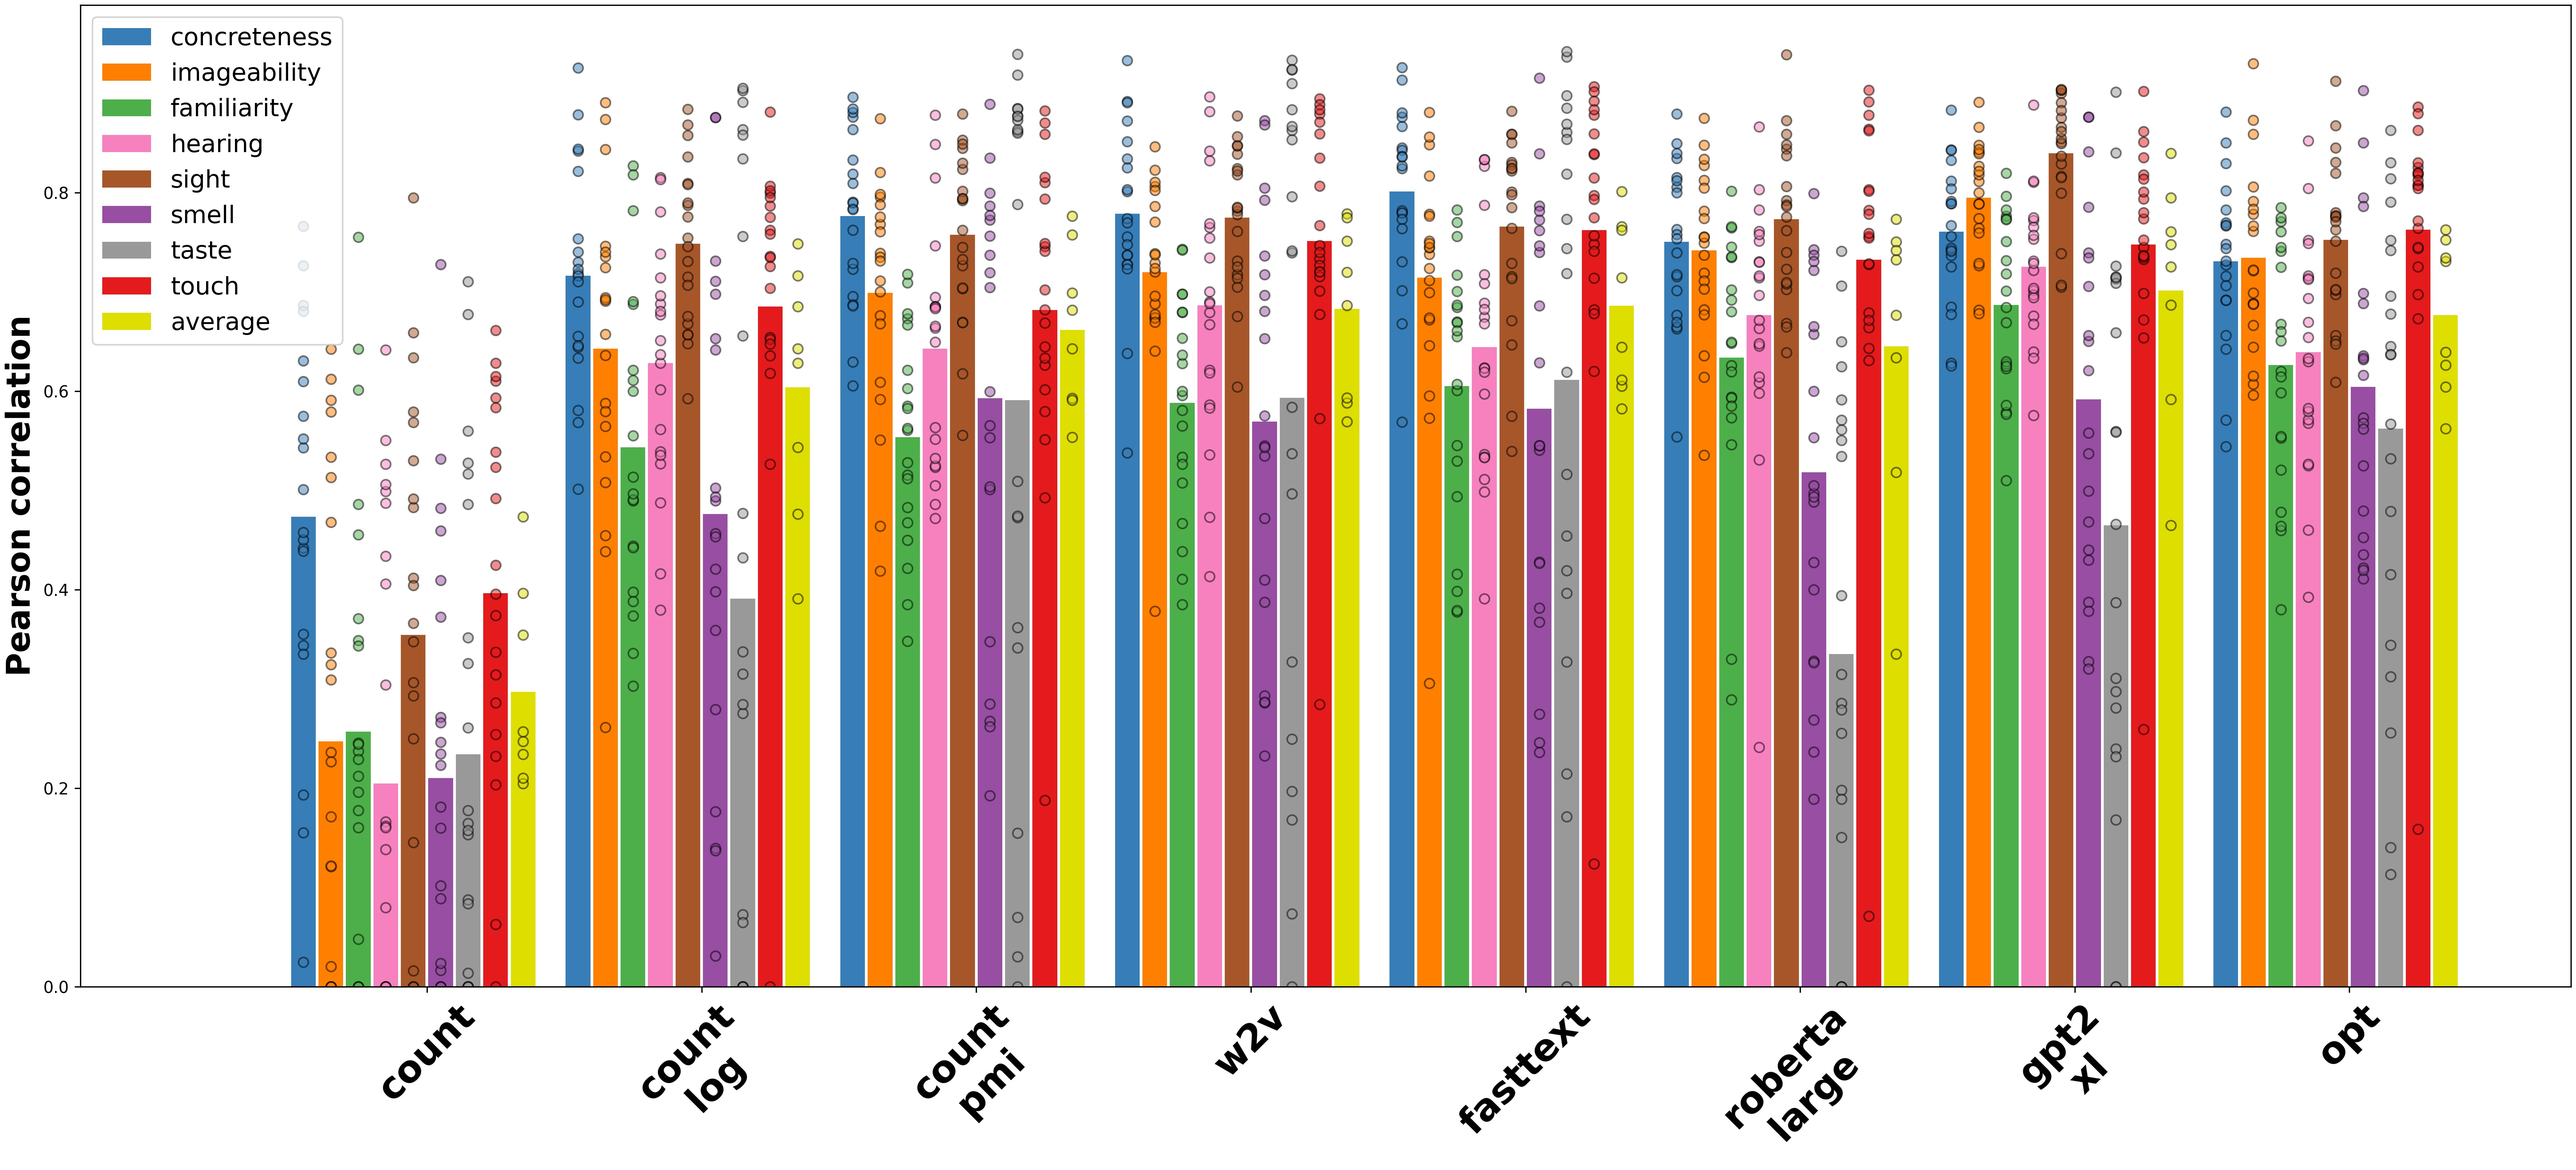
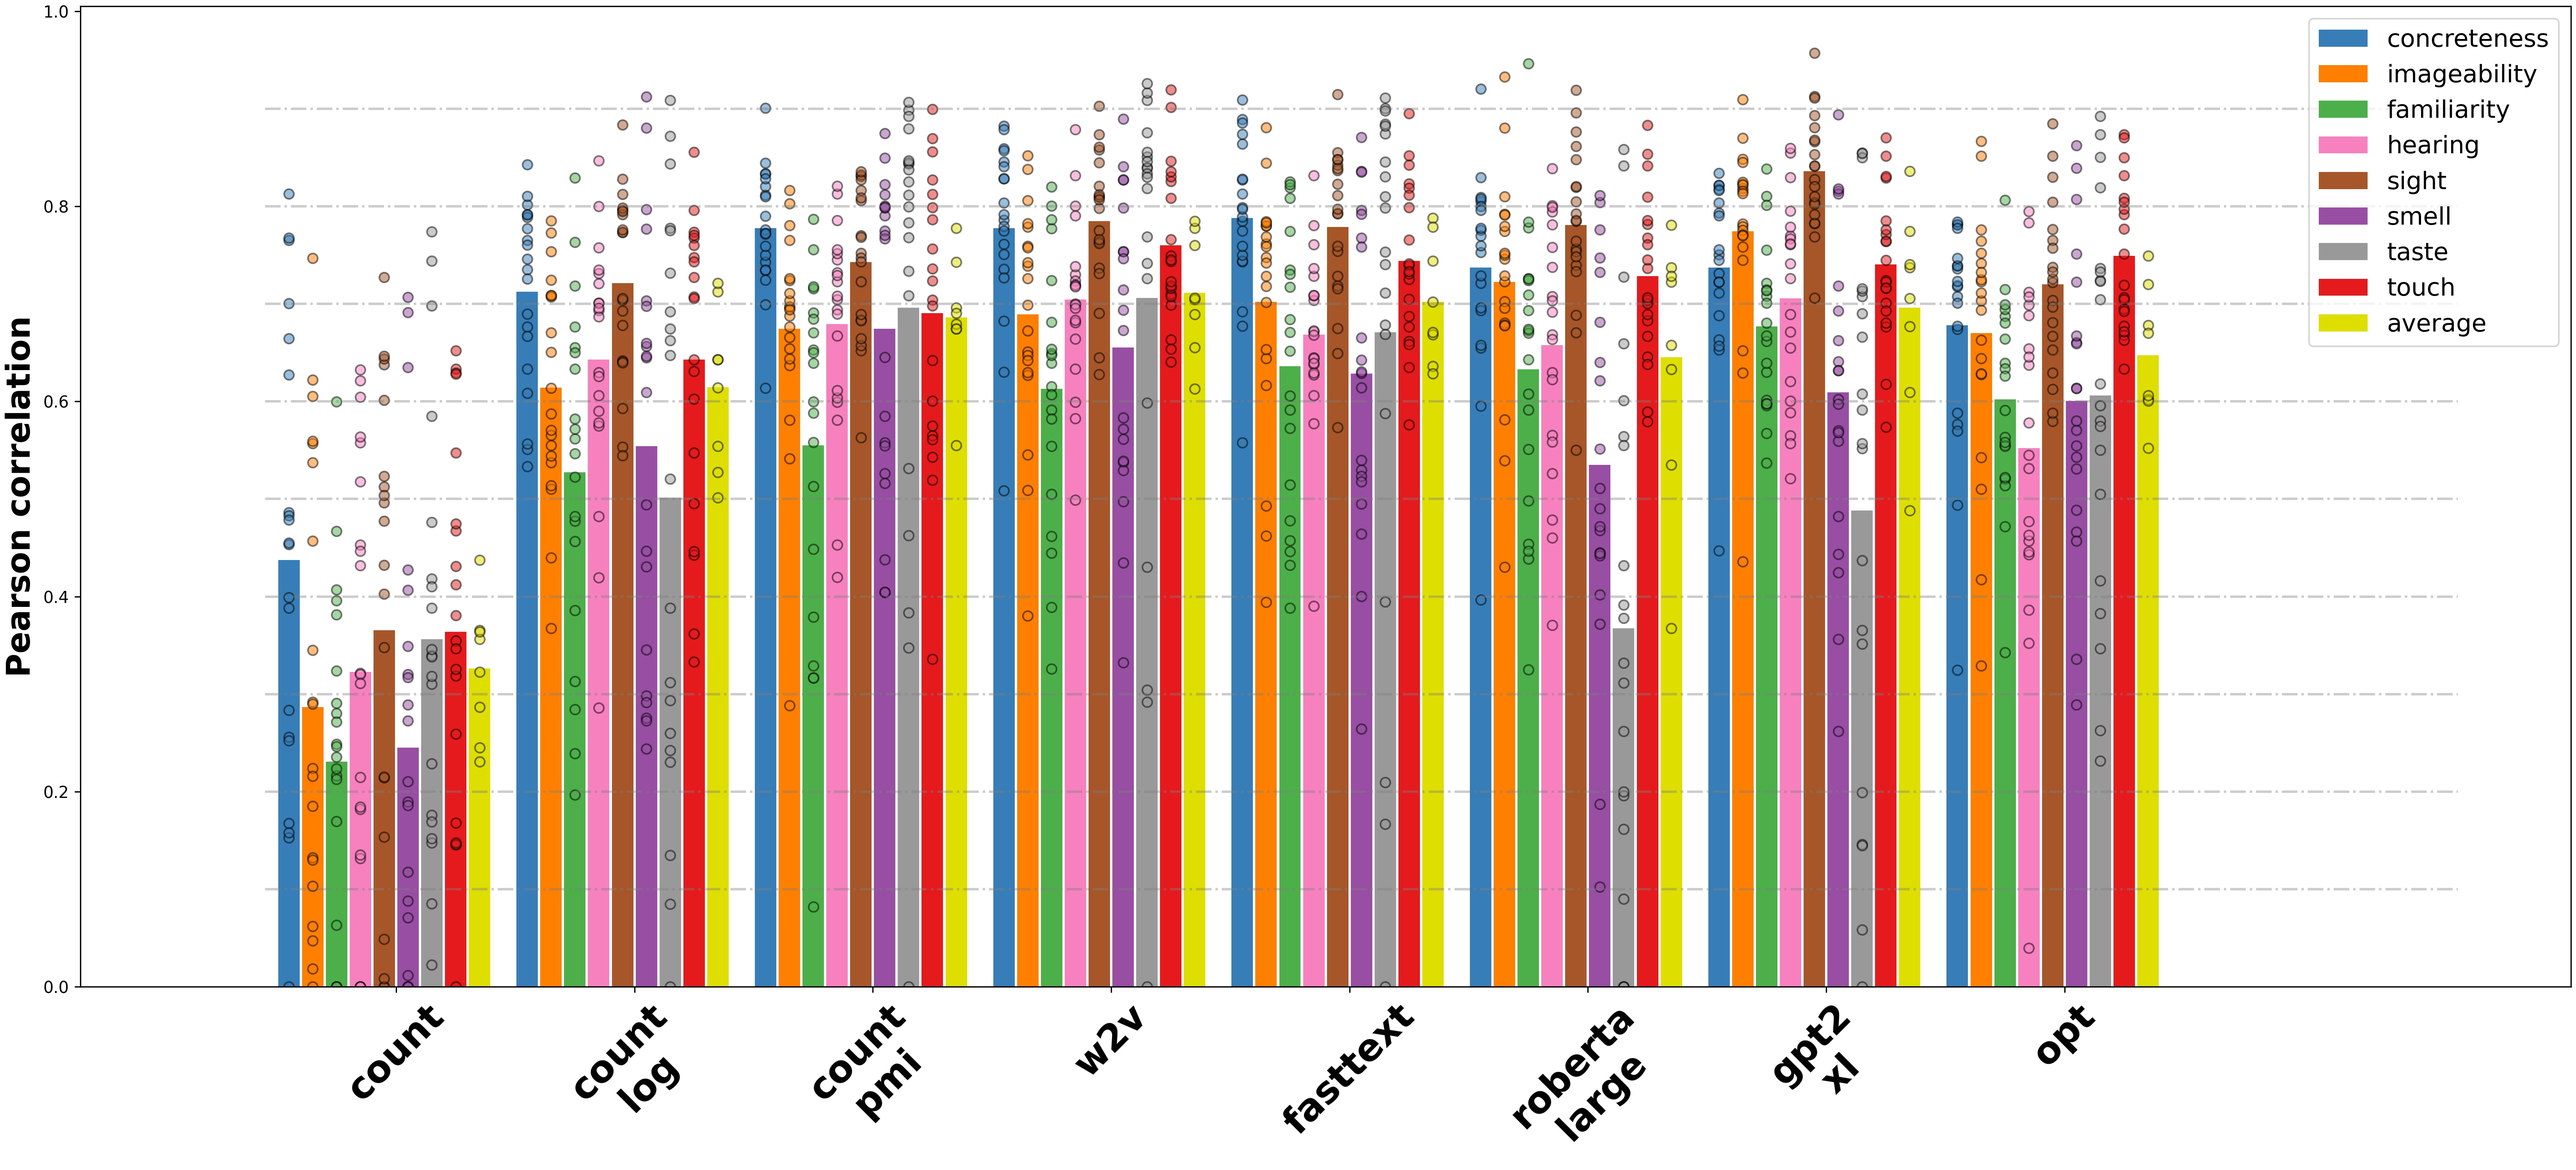
plot details

diff --git a/rsa_and_evaluation.py b/rsa_and_evaluation.py
@@ -132,6 +132,7 @@ for var_i, var in enumerate(variables):
 for col_name, pal in palette.items():
     ax.bar([0.], [0.], color=pal, label=col_name)
 
+ax.hlines([0.1, 0.2, 0.3, 0.4, 0.5, 0.6, 0.7, 0.8, 0.9], xmin=-0.1, color='grey', alpha=0.4, xmax=len(variables)+.1, linestyles='dashdot', zorder=2.5)
 ax.set_xticks([i+(len(corrections)/20) for i in range(len(sims.keys()))])
 ax.set_xticklabels([m.replace('-', '\n') for m in models_sorted], fontsize=23, ha='center', rotation=45, fontweight='bold')
 ax.legend(fontsize=15)
@@ -226,6 +227,7 @@ for var_i, var in enumerate(variables):
                     zorder=2.5,)
     '''
 ax.hlines([0.5], xmin=-0.1, color='black', xmax=len(variables)+.1, linestyles='dashdot', zorder=2.5)
+ax.hlines([0.2, 0.3, 0.4, 0.5, 0.6, 0.7, 0.8], xmin=-0.1, color='grey', alpha=0.4, xmax=len(variables)+.1, linestyles='dashdot', zorder=2.5)
 ### dummy to do the legend
 
 for col_name, pal in palette.items():
